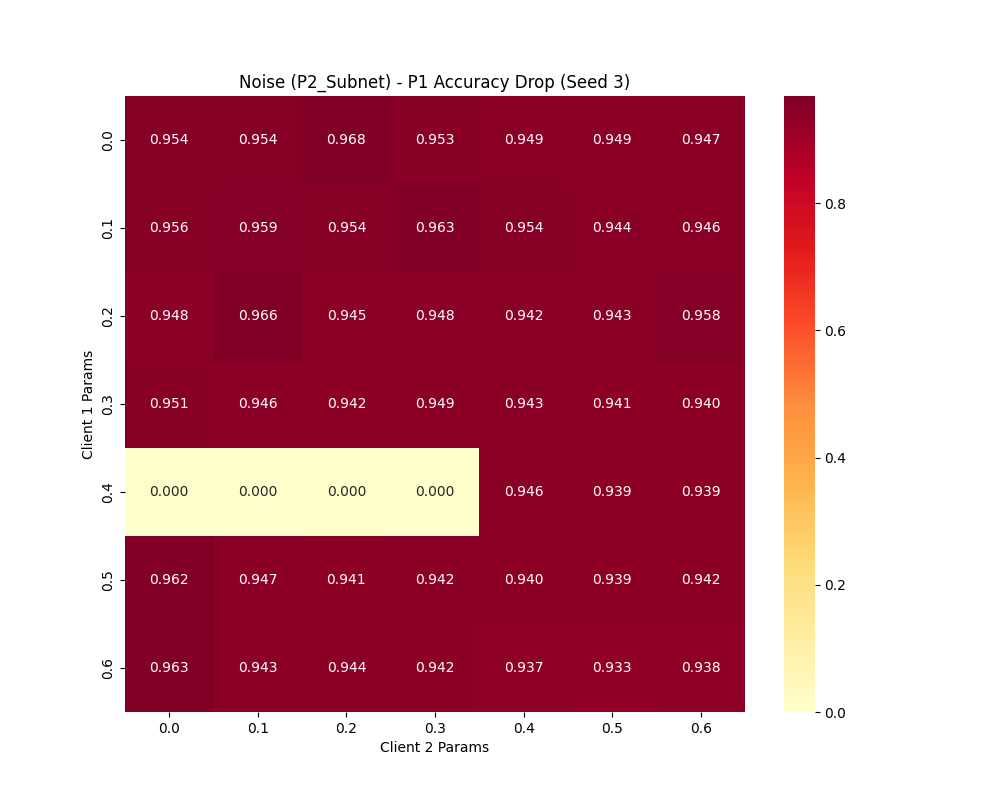
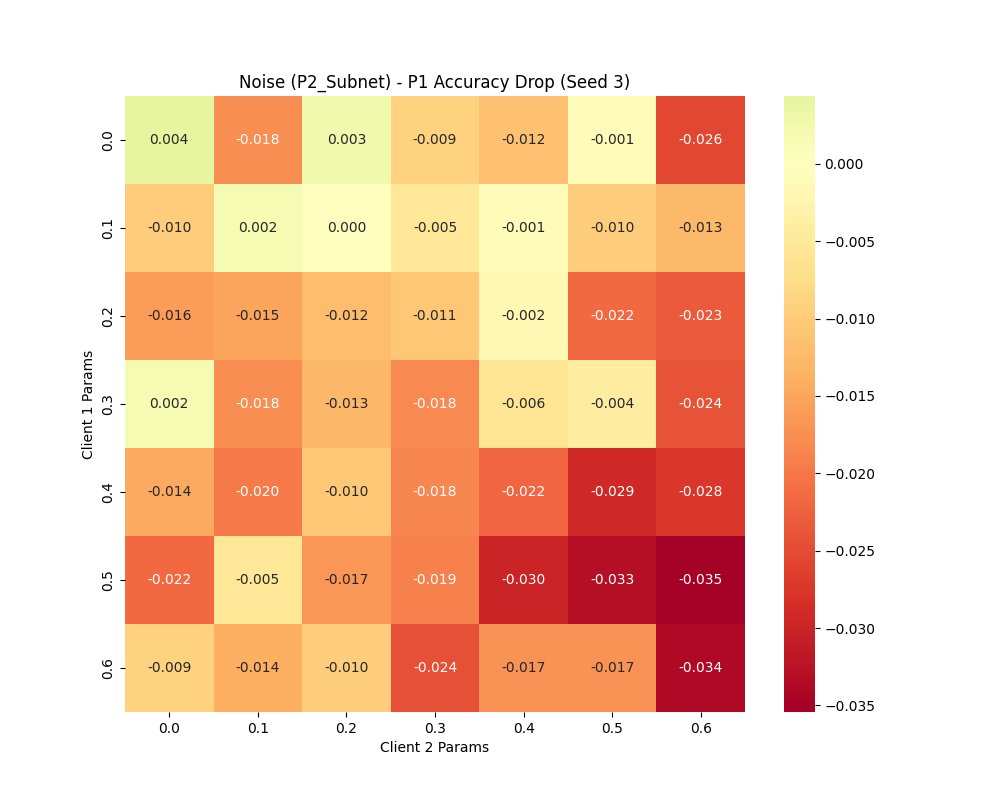
fix: dataset split logic

diff --git a/flower_fl_traffic/data/dataset.py b/flower_fl_traffic/data/dataset.py
@@ -27,8 +27,6 @@ def setup_directories(cfg):
                 if directory:
                     os.makedirs(directory, exist_ok=True)
 
-    #print("Folder structure initialized successfully.")
-
 def prepare_data_and_loaders(cfg):
     '''
     1. Load raw data, scale features, and encode target.
@@ -36,35 +34,53 @@ def prepare_data_and_loaders(cfg):
     3. Create DataLoader objects for each split and return them in a structured dict format'''
     ds_cfg = cfg.dataset
     seed = cfg.config.seed
-    
-    # Load raw data, scale features, and encode target.
-    df = pd.read_parquet(ds_cfg.input_path, columns=ds_cfg.feature_columns + [ds_cfg.target_column]).dropna()
-    X = StandardScaler().fit_transform(df[ds_cfg.feature_columns].values.astype(np.float32))
-    y = LabelEncoder().fit_transform(df[ds_cfg.target_column].values).astype(np.int32)
 
-    # Reduce the initial dataset size to half for faster experimentation (optional, can be removed for full dataset)
-    dataset_ratio = 0.5
-    X, _, y, _ = train_test_split(X, y, test_size=dataset_ratio, stratify=y, random_state=seed)
+    all_data = {}
 
-    # Hierarchical splits and saving
-    # Base -> P1, P2
-    X1, X2, y1, y2 = train_test_split(X, y, test_size=ds_cfg.initial_split_ratio, stratify=y, random_state=seed)
+    p1_path = ds_cfg.paths.get('p1', '')
+    p2_path = ds_cfg.paths.get('p2', '')
+
+    if os.path.exists(p1_path) and os.path.exists(p2_path):
+        # Load pre-split data from Parquet files if they exist (ensures consistent splits across runs)
+        p1_data = pd.read_parquet(p1_path)
+        p2_data = pd.read_parquet(p2_path)
+        X1, y1 = p1_data[ds_cfg.feature_columns].values.astype(np.float32), p1_data[ds_cfg.target_column].values.astype(np.int32)
+        X2, y2 = p2_data[ds_cfg.feature_columns].values.astype(np.float32), p2_data[ds_cfg.target_column].values.astype(np.int32)
+    else: # If pre-split data doesn't exist, perform the full loading and splitting process
+        # Load raw data, scale features, and encode target.
+        df = pd.read_parquet(ds_cfg.input_path, columns=ds_cfg.feature_columns + [ds_cfg.target_column]).dropna()
+        X = StandardScaler().fit_transform(df[ds_cfg.feature_columns].values.astype(np.float32))
+        y = LabelEncoder().fit_transform(df[ds_cfg.target_column].values).astype(np.int32)
+
+        # Reduce the initial dataset size to half for faster experimentation (optional, can be removed for full dataset)
+        dataset_ratio = 0.5
+        X, _, y, _ = train_test_split(X, y, test_size=dataset_ratio, stratify=y, random_state=42)
+
+        # Base -> P1, P2
+        X1, X2, y1, y2 = train_test_split(X, y, test_size=ds_cfg.initial_split_ratio, stratify=y, random_state=42)
+
+        #Save the base splits (P1 and P2) to Parquet files for future runs (ensures consistent splits across runs)
+        pd.DataFrame(X1, columns=ds_cfg.feature_columns).assign(**{ds_cfg.target_column: y1}).to_parquet(p1_path, index=False)
+        pd.DataFrame(X2, columns=ds_cfg.feature_columns).assign(**{ds_cfg.target_column: y2}).to_parquet(p2_path, index=False)
+
+    all_data['p1'] = (X1, y1)
+    all_data['p2'] = (X2, y2)
+
     # P1 -> P11, P12
     X11, X12, y11, y12 = train_test_split(X1, y1, test_size=ds_cfg.initial_split_ratio, stratify=y1, random_state=seed)
     # P2 -> P21, P22
     X21, X22, y21, y22 = train_test_split(X2, y2, test_size=ds_cfg.initial_split_ratio, stratify=y2, random_state=seed)
     
-    # Overwrite previous Parquet files with the new seed-based partitions
-    data_to_save = {'p1':(X1,y1), 'p2':(X2,y2), 'p11':(X11,y11), 'p12':(X12,y12), 'p21':(X21,y21), 'p22':(X22,y22)}
+    # Overwrite the sub-splits to Parquet files (P11, P12, P21, P22) and store them in the all_data dict
+    data_to_save = {'p11':(X11,y11), 'p12':(X12,y12), 'p21':(X21,y21), 'p22':(X22,y22)}
     for key, (sX, sy) in data_to_save.items():
+        all_data[key] = (sX, sy)
         pd.DataFrame(sX, columns=ds_cfg.feature_columns).assign(**{ds_cfg.target_column: sy}).to_parquet(ds_cfg.paths[key], index=False)
 
     # Create DataLoader objects for each split, returning them in a structured dict format
     loaders = {}
     for key in ds_cfg.paths.keys():
-        df_p = pd.read_parquet(ds_cfg.paths[key])
-        X_p, y_p = df_p[ds_cfg.feature_columns].values.astype(np.float32), df_p[ds_cfg.target_column].values.astype(np.int32)
-        
+        X_p, y_p = all_data[key]        
         X_tr, X_te, y_tr, y_te = train_test_split(X_p, y_p, test_size=ds_cfg.test_split_ratio, stratify=y_p, random_state=seed)
         
         loaders[key] = {

diff --git a/flower_fl_traffic/utils/visualizer.py b/flower_fl_traffic/utils/visualizer.py
@@ -80,8 +80,8 @@ def process_and_plot(seed):
                 p2_acc = exp['final_evaluation']["P2"]['accuracy']
 
                 # Accuracy Drop (Local - Fed): a pozitív szám jelzi a romlást
-                m1_diff[idx1][idx2] = p1_acc
-                m2_diff[idx1][idx2] = p2_acc
+                m1_diff[idx1][idx2] = p1_acc - b_p1
+                m2_diff[idx1][idx2] = p2_acc - b_p2
 
             # --- VIZUALIZÁCIÓ ---
             # A None-t lecseréljük 0.0-ra a tengelyen
@@ -90,7 +90,7 @@ def process_and_plot(seed):
             for p_tag, matrix in [("P1", m1_diff), ("P2", m2_diff)]:
                 plt.figure(figsize=(10, 8))
                 # YlOrRd skála: a sötétebb piros jelzi a nagyobb teljesítményvesztést
-                sns.heatmap(matrix, annot=True, fmt=".3f", cmap="YlOrRd", 
+                sns.heatmap(matrix, annot=True, fmt=".3f", cmap="RdYlGn", center=0, 
                             xticklabels=display_params, yticklabels=display_params)
                 
                 plt.title(f"{method_name} ({sc_name}) - {p_tag} Accuracy Drop (Seed {seed})")
